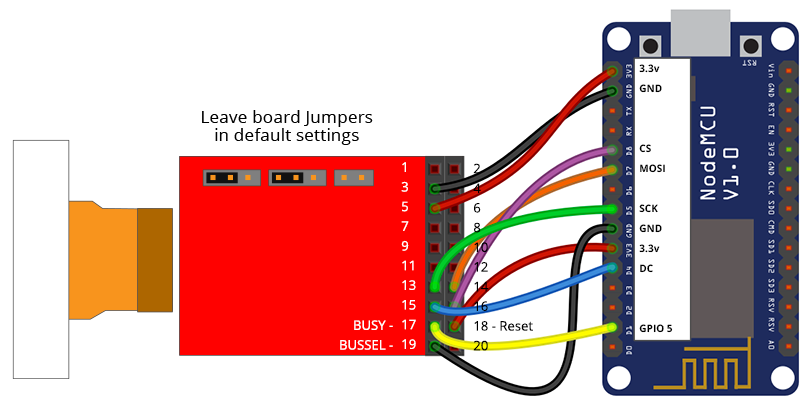
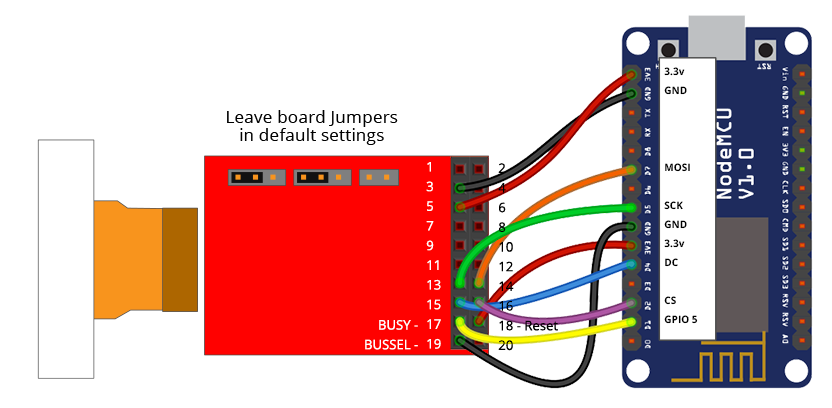
Update wiring info for destm32s - ESP - eInk display

diff --git a/documentation/displays/wiring-guide-crystalfontz-eink.md b/documentation/displays/wiring-guide-crystalfontz-eink.md
@@ -44,7 +44,7 @@ mcconfig -d -m -p esp -f gray256 -r 270
 | 13 - SCK | GPIO 14 | (D5)
 | 14 - SDI | GPIO 13 | (D7)
 | 15 - DC | GPIO 2 | (D4) 
-| 16 - CS | GPIO 15 | (D8) 
+| 16 - CS | GPIO 4 | (D2) 
 | 17 - BUSY | GPIO 5 | (D1)
 | 18 - Reset | 3.3v |
 | 19 - BUSSEL | GND |  
